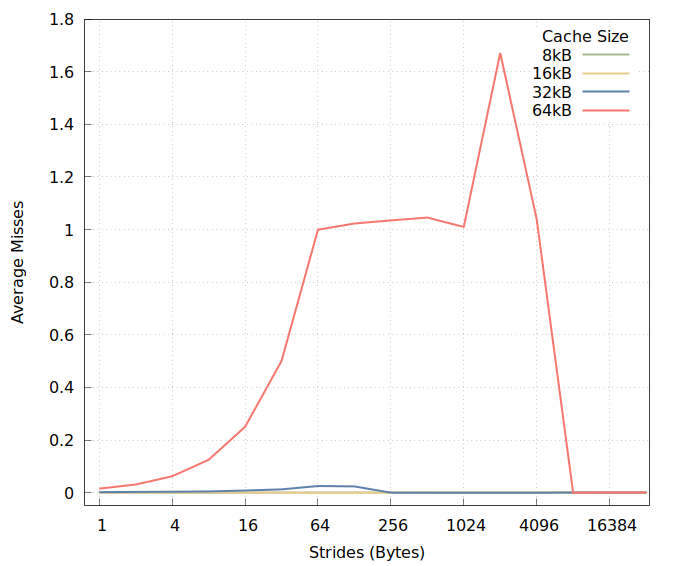
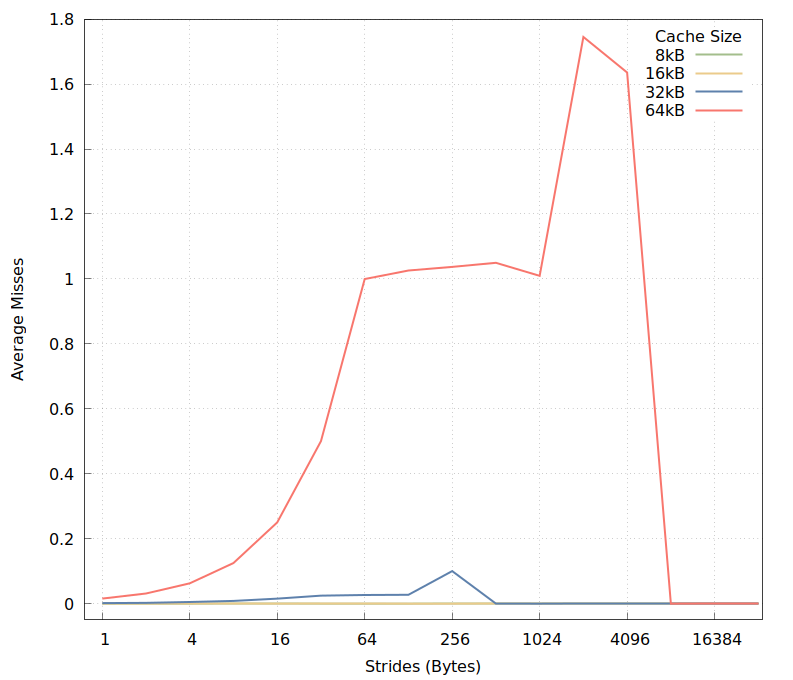
Alter cm1 to test on L2 cache and improve scripts

diff --git a/lab1/lab1_kit/cm1_l2/cm1_l2.c b/lab1/lab1_kit/cm1_l2/cm1_l2.c
@@ -5,8 +5,8 @@
 #include <stdlib.h> // exit()
 #include <string.h>
 
-#define CACHE_MIN (8 * 1024)
-#define CACHE_MAX (64 * 1024)
+#define CACHE_MIN (64 * 1024)
+#define CACHE_MAX (1024 * 1024)
 #define N_REPETITIONS (200)
 
 void handle_error(char *outstring);
@@ -33,8 +33,8 @@ int main() {
         handle_error("create_eventset");
     }
 
-    /* Add L1 data cache misses to our Event Set */
-    if (PAPI_add_event(EventSet, PAPI_L1_DCM) != PAPI_OK) {
+    /* Add L2 data cache misses to our Event Set */
+    if (PAPI_add_event(EventSet, PAPI_L2_DCM) != PAPI_OK) {
         handle_error("add_event");
     }
 
